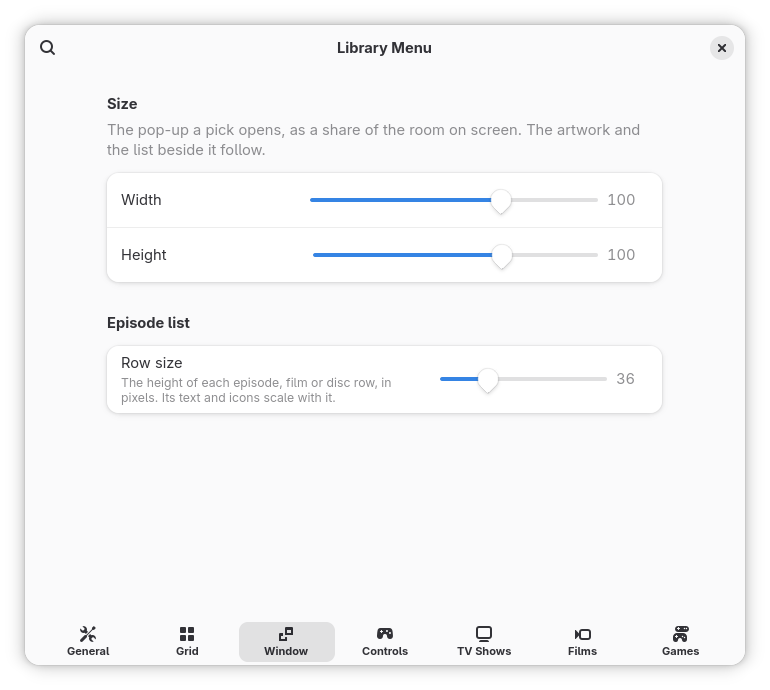
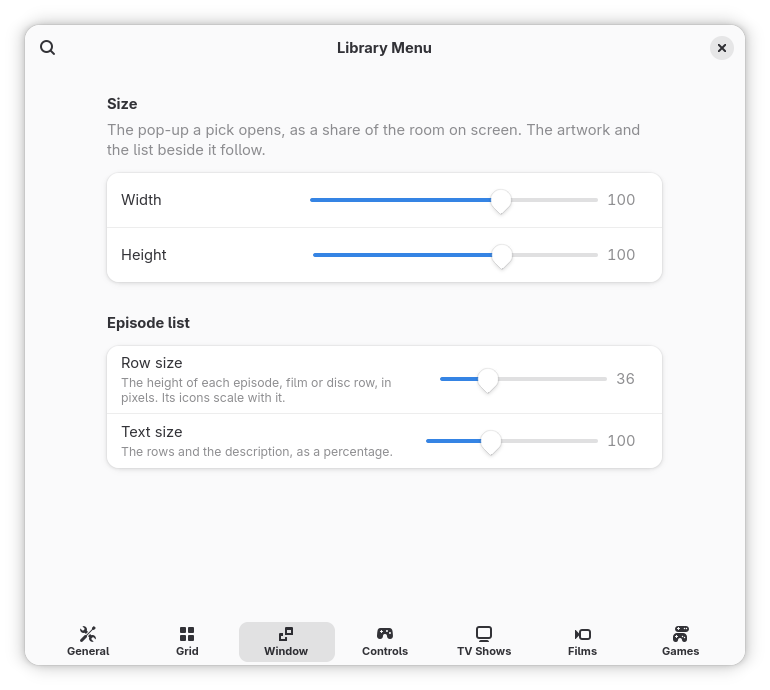
A text size for the pop-up's episode rows and description, apart from the row size (#133)
detail-row-size scaled the rows' type with their height, so shorter rows
meant smaller episode titles. detail-text-size (a percentage, 100 by
default) now sizes the rows' text and the description; the rows' icons and
discs still follow the row height.

Fixes #127

Changed region(s): [[0.1558, 0.6087, 0.4987, 0.6696], [0.2494, 0.5478, 0.4364, 0.5783]]

diff --git a/src/lib/detailView.js b/src/lib/detailView.js
@@ -20,17 +20,20 @@ const PADDING = 32 - PANE_INSET;
 // Of the pane's width: the title and list keep the rest.
 const HERO_MAX_WIDTH_FRACTION = 0.34;
 const HERO_MIN = 132;
-// One line of the summary's 0.95em type; St has no line-height to set.
+// The summary's type, scaled by `detail-text-size`, and one line of it at 100 %;
+// St has no line-height to set.
+const SUMMARY_EM = 0.95;
 const SUMMARY_LINE = 21;
 const SUMMARY_LINES = 5;
 const FIRST_ROWS = 24;
 const ROWS_PER_BATCH = 16;
 
 export class DetailView {
-    constructor({onOpen, tracker, rowSize}) {
+    constructor({onOpen, tracker, rowSize, textSize}) {
         this._onOpen = onOpen;
         this._tracker = tracker;
         this._rowSize = rowSize;
+        this._textSize = textSize;
         this._section = null;
         this._groups = [];
         this._groupIndex = 0;
@@ -297,11 +300,16 @@ export class DetailView {
             main.add_child(facts);
 
         if (item.summary) {
-            const summary = new St.Label({text: item.summary, style_class: 'ml-summary', x_expand: true});
+            const summary = new St.Label({
+                text: item.summary,
+                style_class: 'ml-summary',
+                x_expand: true,
+                style: `font-size: ${(SUMMARY_EM * this._textSize).toFixed(2)}em;`,
+            });
             summary.clutter_text.line_wrap = true;
             summary.clutter_text.line_wrap_mode = Pango.WrapMode.WORD_CHAR;
             summary.clutter_text.ellipsize = Pango.EllipsizeMode.END;
-            summary.height = SUMMARY_LINE * this._scale * SUMMARY_LINES;
+            summary.height = Math.round(SUMMARY_LINE * this._scale * SUMMARY_LINES * this._textSize);
             summary.y_expand = false;
             main.add_child(summary);
         }
@@ -389,6 +397,7 @@ export class DetailView {
                     size: entry.size,
                     icon: entry.icon,
                     height: this._rowSize,
+                    textSize: this._textSize,
                     onActivate: () => this._open(entry.path),
                     watched: tracker && entry.path ? tracker.isWatched(entry.path) : null,
                     onWatched: watched => tracker.setWatched(entry.path, watched),

diff --git a/src/lib/widgets.js b/src/lib/widgets.js
@@ -154,17 +154,16 @@ export function createPill(text, styleClass, style = null) {
 }
 
 // `watched` null: nothing to track; true or false makes the disc a toggle.
-// `height` is logical px; the row's type and icons scale with it from the
-// stylesheet's 36 px, so a two-line row still fits.
-export function createRow({index, title, subtitle, badges = [], size, icon = 'media-playback-start-symbolic', height, onActivate, watched = null, onWatched}) {
-    const ratio = height / ROW_SIZE;
-    const iconSize = Math.round(16 * ratio);
+// `height` is logical px; the row's icons scale with it from the stylesheet's
+// 36 px, and its type with `textSize` alone, so a shorter row keeps its text.
+export function createRow({index, title, subtitle, badges = [], size, icon = 'media-playback-start-symbolic', height, textSize, onActivate, watched = null, onWatched}) {
+    const iconSize = Math.round(16 * height / ROW_SIZE);
     const row = new St.Button({
         style_class: 'button flat ml-row',
         can_focus: true,
         track_hover: true,
         x_expand: true,
-        style: `${radiusStyle()} height: ${height}px; min-height: ${height}px; font-size: ${ratio.toFixed(2)}em;`,
+        style: `${radiusStyle()} height: ${height}px; min-height: ${height}px; font-size: ${textSize.toFixed(2)}em;`,
     });
     const discStyle = `width: ${height}px; height: ${height}px;`;
     const content = new St.BoxLayout({x_expand: true, y_align: Clutter.ActorAlign.CENTER});

diff --git a/src/lib/app.js b/src/lib/app.js
@@ -128,7 +128,7 @@ export class LibraryApp {
         St.ThemeContext.get_for_stage(global.stage).connectObject('notify::scale-factor',
             () => this._scheduleRebuild(), this);
         const rebuildKeys = [...GRID_KEYS, 'corner-radius', 'detail-width', 'detail-height',
-            'detail-row-size', 'desktop-dash', ...SECTIONS.map(s => `${s.prefix}-enabled`)];
+            'detail-row-size', 'detail-text-size', 'desktop-dash', ...SECTIONS.map(s => `${s.prefix}-enabled`)];
         for (const key of rebuildKeys)
             this._settings.connectObject(`changed::${key}`, () => this._scheduleRebuild(), this);
 
@@ -332,6 +332,7 @@ export class LibraryApp {
             width: this._settings.get_int('detail-width') / 100,
             height: this._settings.get_int('detail-height') / 100,
             rowSize: this._settings.get_int('detail-row-size'),
+            textSize: this._settings.get_int('detail-text-size') / 100,
         });
         this._browser = new MediaMenu({
             sections,

diff --git a/src/stylesheet.css b/src/stylesheet.css
@@ -194,6 +194,7 @@
     font-weight: normal;
 }
 
+/* The size is detailView.js SUMMARY_EM, set inline by `detail-text-size`. */
 .ml-summary {
     font-size: 0.95em;
     color: rgba(250, 250, 251, 0.78);
@@ -247,8 +248,9 @@
      * height, so rows left to size themselves came out squashed to their
      * minimum in a long list and full-size in a short one. `height` alone
      * sets only the natural; the index disc's height, which a two-line
-     * row's text fits inside. widgets.js createRow sets the three inline
-     * from `detail-row-size`, scaling the type with it; these are its default. */
+     * row's text fits inside. widgets.js createRow sets the two inline from
+     * `detail-row-size` and the type from `detail-text-size`; these are the
+     * defaults. */
     min-height: 36px;
     height: 36px;
     transition-duration: 120ms;

diff --git a/src/lib/detailDialog.js b/src/lib/detailDialog.js
@@ -51,7 +51,7 @@ function folderLook() {
 
 export const DetailDialog = GObject.registerClass(
 class LibraryDetailDialog extends St.Bin {
-    constructor({onOpen, tracker, width, height, rowSize}) {
+    constructor({onOpen, tracker, width, height, rowSize, textSize}) {
         super({
             visible: false,
             x_expand: true,
@@ -94,7 +94,7 @@ class LibraryDetailDialog extends St.Bin {
         });
         this._panel.add_child(this._clip);
 
-        this._detail = new DetailView({onOpen, tracker, rowSize});
+        this._detail = new DetailView({onOpen, tracker, rowSize, textSize});
         this._detail.actor.set_position(0, 0);
         this._clip.add_child(this._detail.actor);
 

diff --git a/src/prefs.js b/src/prefs.js
@@ -411,8 +411,10 @@ export default class LibraryPreferences extends ExtensionPreferences {
 
         const list = new Adw.PreferencesGroup({title: 'Episode list'});
         page.add(list);
-        list.add(row('Row size', 'The height of each episode, film or disc row, in pixels. Its text and icons scale with it.',
+        list.add(row('Row size', 'The height of each episode, film or disc row, in pixels. Its icons scale with it.',
             slider(settings, 'detail-row-size', 28, 56)));
+        list.add(row('Text size', 'The rows and the description, as a percentage.',
+            slider(settings, 'detail-text-size', 70, 150)));
         return page;
     }
 

diff --git a/CLAUDE.md b/CLAUDE.md
@@ -122,10 +122,10 @@ controllers are the keyboard too: `.claude/rules/keyboard.md`.
 - **One set of style settings**: the grid's (`gridMath.js` `GRID_KEYS`: `columns`
   4–10, `rows` 1–3, the spacing and padding pairs, `show-titles`, `grid-align`),
   `corner-radius`, the pop-up's (`detail-width` and `detail-height`, 60–120 %, its
-  share of the work area, applied in `detailDialog.js` `_budget()`, and
+  share of the work area, applied in `detailDialog.js` `_budget()`,
   `detail-row-size`, the list's row height, which `widgets.js` `createRow` scales
-  its type and icons from). No view keeps a copy, and a change
-  rebuilds what is built.
+  its icons from, and `detail-text-size`, the rows' and the description's type). No
+  view keeps a copy, and a change rebuilds what is built.
   `.claude/rules/layout.md` has how the grid and the pane size themselves.
 - **The neutrals are the dark palette's** (`#222226`, `#fafafb`) on purpose: the
   overview is dark in both schemes. A light variant would be a class synced from

diff --git a/README.md b/README.md
@@ -178,13 +178,13 @@ button.
   </tr>
   <tr>
     <td width="50%"><img src="docs/screenshots/prefs-controls.png" alt="The Controls page: the keys a remote sends for Up, Down, Left, Right, Select, Back, Home and a page each way"></td>
-    <td width="50%"><img src="docs/screenshots/prefs-window.png" alt="The Window page: the pop-up's width and height sliders, and the episode row size"></td>
+    <td width="50%"><img src="docs/screenshots/prefs-window.png" alt="The Window page: the pop-up's width and height sliders, the episode row size and the text size"></td>
   </tr>
   <tr>
     <td valign="top"><b>Controls</b>: remote keys and controller buttons for browsing
     from the sofa.</td>
-    <td valign="top"><b>Window</b>: the pop-up's width and height, and the size of
-    the rows in its episode list.</td>
+    <td valign="top"><b>Window</b>: the pop-up's width and height, the size of the
+    rows in its episode list, and of their text and the description.</td>
   </tr>
 </table>
 
